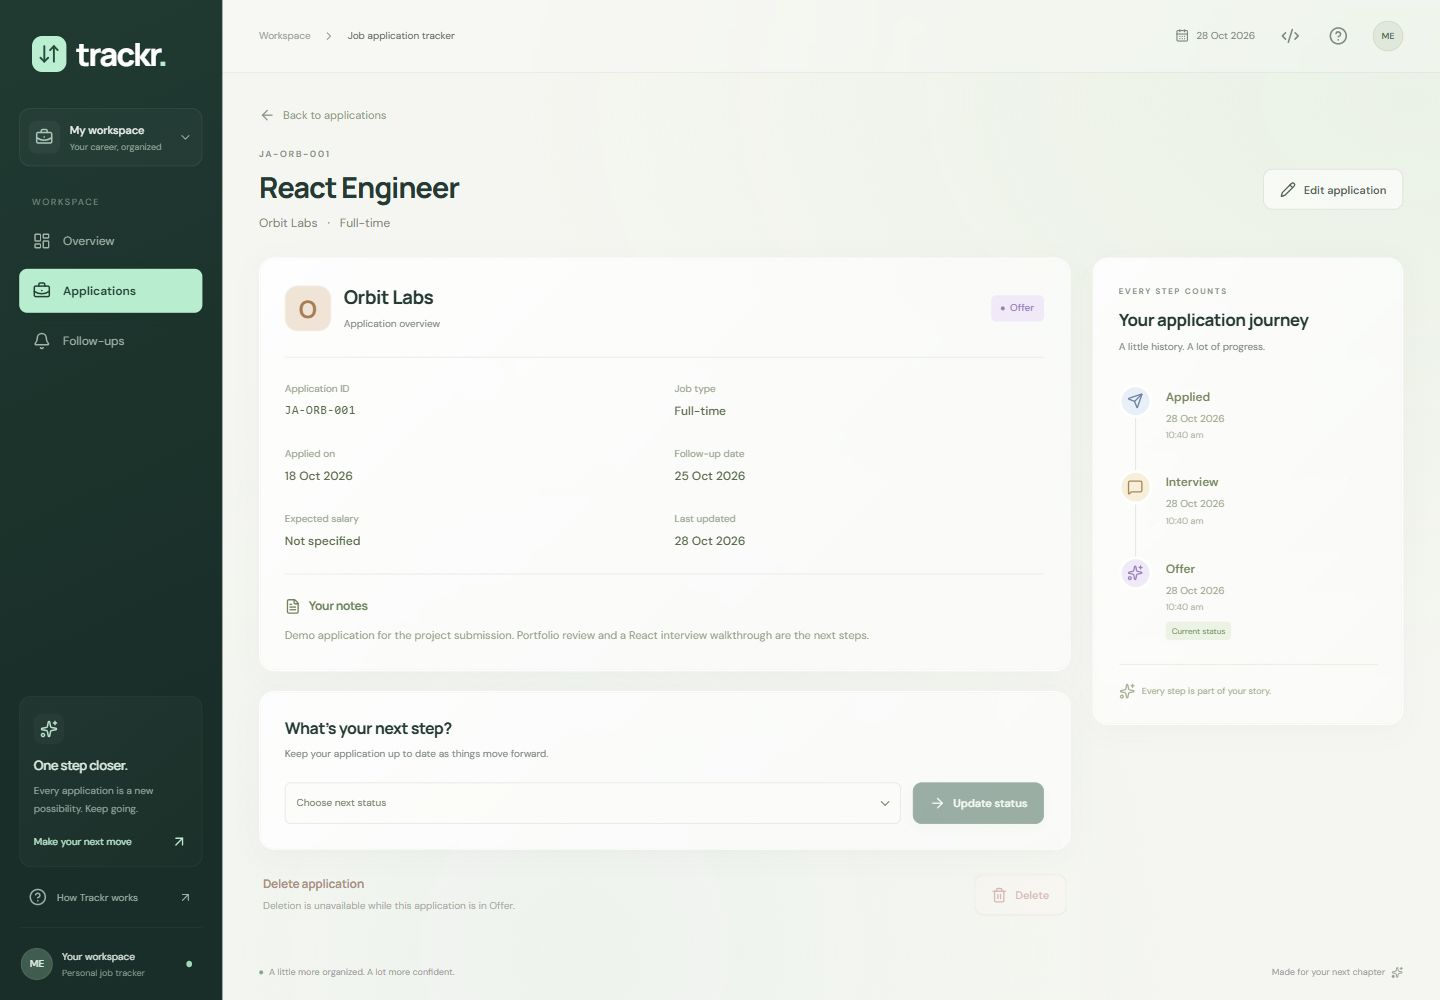
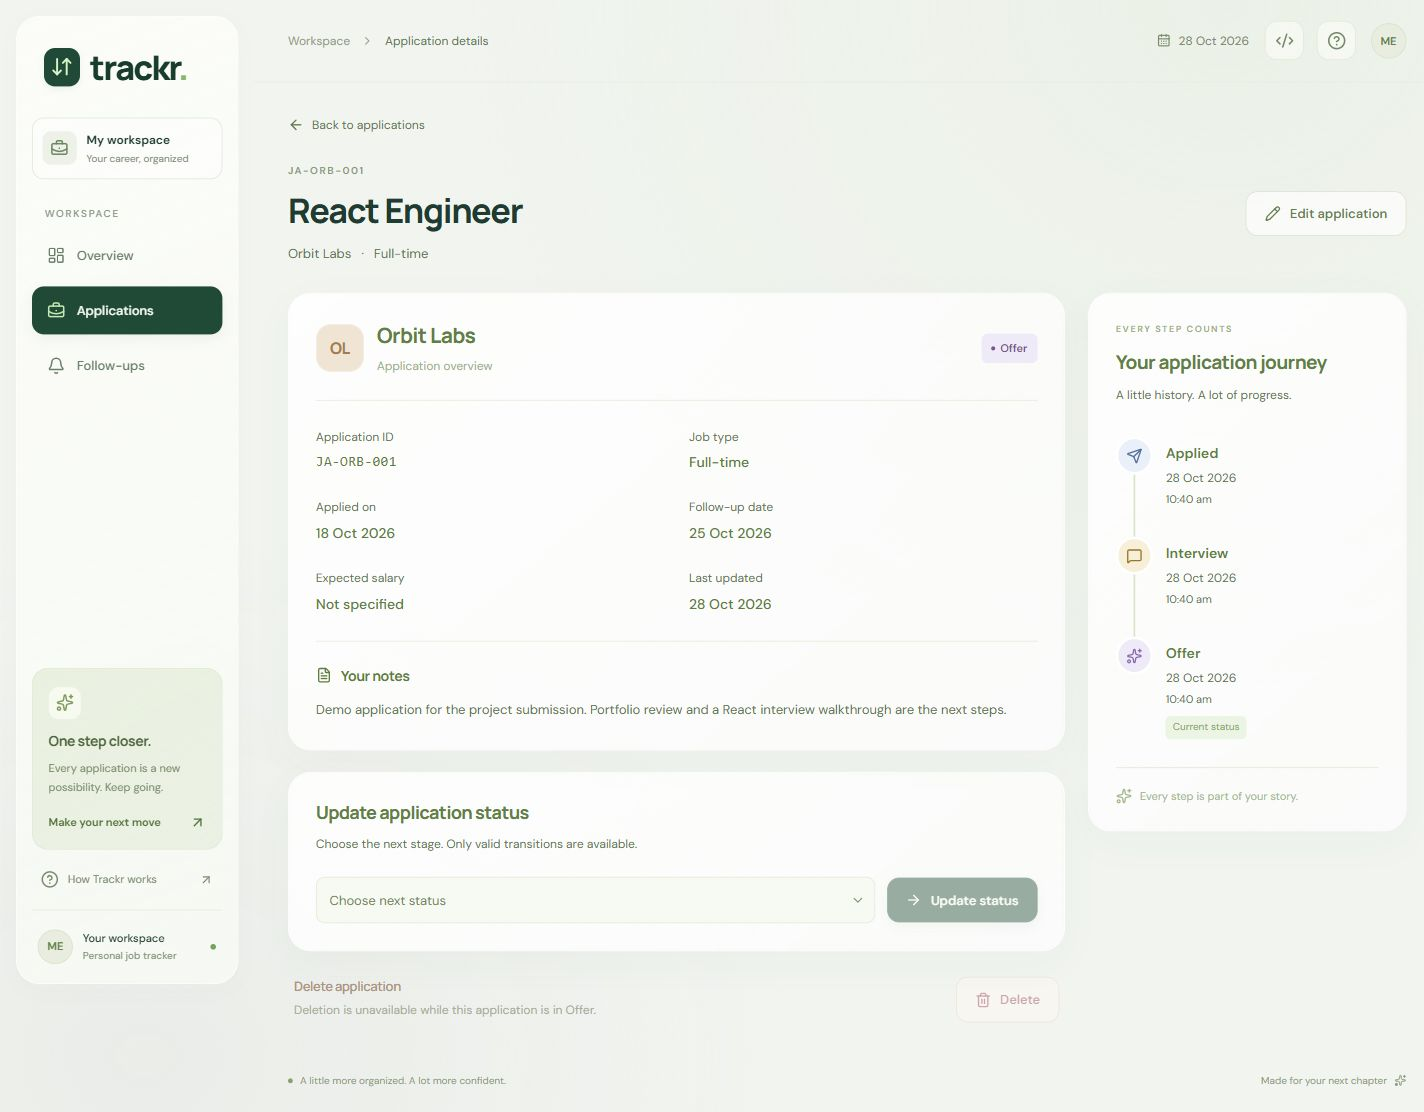
Refresh submission screenshots and verify the deployed UI redesign

diff --git a/docs/VERIFICATION.md b/docs/VERIFICATION.md
@@ -35,7 +35,7 @@ Earlier isolated QA also verified combined backend company/status filtering, fut
 
 - Live URL: https://trackr-albertjaison18.onrender.com
 - Provider: Render Free Node web service, Singapore.
-- Render built and deployed application commit `012f342` with Node.js 24.22.1.
+- The initial deployment used application commit `012f342` with Node.js 24.22.1; the UI refresh was subsequently deployed as `0a2e247`.
 - Public `/health` returned `databaseConnected: true`; public status counts matched Atlas.
 - The hosted frontend displayed all four demo applications.
 - A demo application's notes were edited through the hosted UI, saved to Atlas, and remained visible after reloading its direct details URL.
@@ -52,6 +52,9 @@ Earlier isolated QA also verified combined backend company/status filtering, fut
 - Confirmed the follow-up page defaults to oldest follow-up date first.
 - Fixed an icon-import error found during local browser QA; no new browser errors appeared in the follow-up checks.
 - Rebuilt the production bundle and reran all 16 existing tests successfully.
+- Verified no horizontal overflow at actual 360px, 390px, 768px, 1024px and 1440px viewports.
+- Render reported the redesign deployment `0a2e247` Live. Confirmed public company search and removable filters, the Offer stage's valid next statuses, and disabled deletion on the hosted site.
+- Refreshed dashboard, timeline and phone screenshots from the deployed redesign. The final hosted browser check reported no new console errors.
 
 ## Remaining assessment conditions
 

diff --git a/README.md b/README.md
@@ -2,7 +2,7 @@
 
 **Live application:** [trackr-albertjaison18.onrender.com](https://trackr-albertjaison18.onrender.com)
 
-A MERN job application tracker with a responsive glassmorphism dashboard, application management and status timelines.
+A MERN job application tracker with a responsive glass-and-bento dashboard, focused application management and status timelines.
 
 **Implemented and verified:** responsive React frontend, Express backend, real MongoDB Atlas persistence, clean installation and production build. The committed environment uses a dedicated disposable exam account, with evaluator network access explicitly approved.
 
